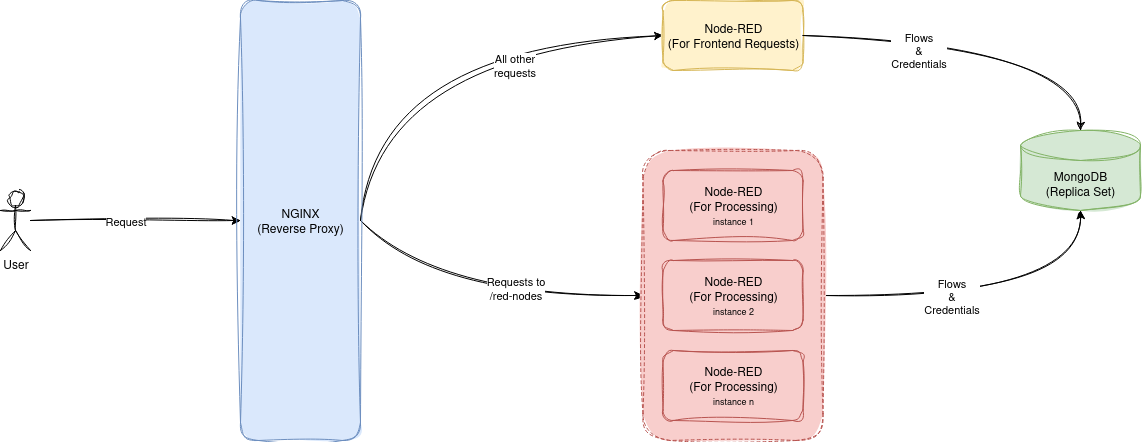
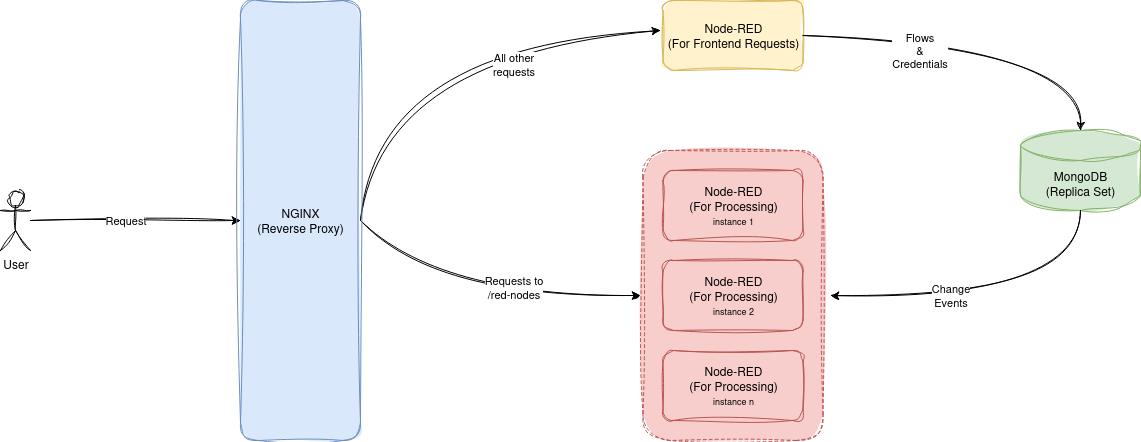
Updated README and architecture diagram

diff --git a/README.md b/README.md
@@ -1,6 +1,6 @@
 # Scaling Node-RED
 
-This project provides a setup for scaling Node-RED instances horizontally using Docker, NGINX, and MongoDB. It allows you to run multiple Node-RED instances that share the same flows, which are stored in a MongoDB database. Changes made to the flows in one instance are automatically propagated to all other instances in real-time.
+This project provides a setup for scaling Node-RED instances horizontally using Docker, NGINX, and MongoDB. It allows you to run multiple Node-RED instances that share the same flows, which are stored in a MongoDB database. Changes made to the flows in one instance are automatically propagated to all other instances in real-time. For detailed information, you can check out [this article](https://ahmadd.hashnode.dev/scaling-node-red-for-http-based-flows) I wrote explaining the whole setup.
 
 This setup is specifically designed for scaling flows that are triggered by the HTTP-IN node in Node-RED. For other types of triggers, you may need to modify the setup to achieve scalability.
 
